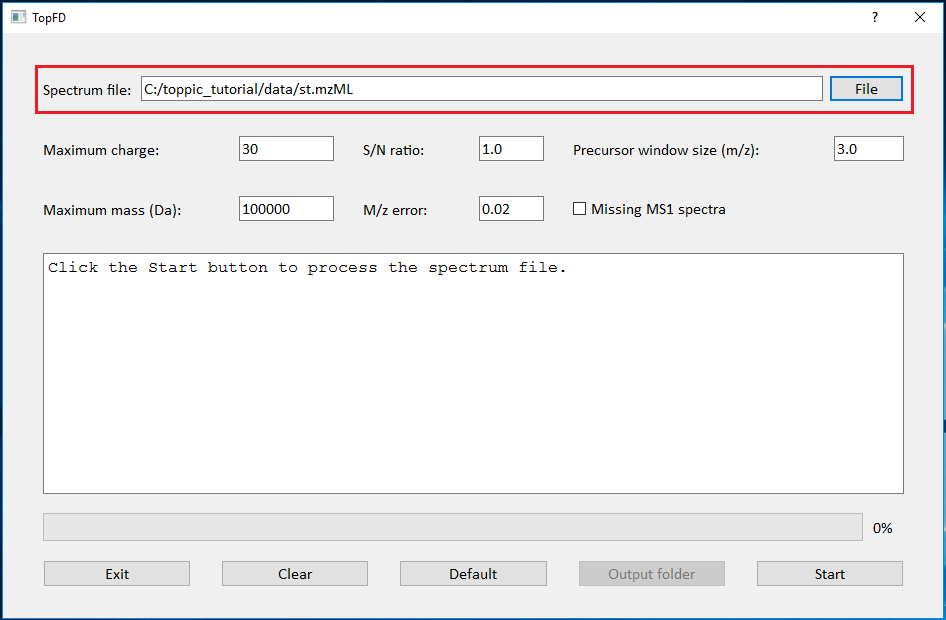
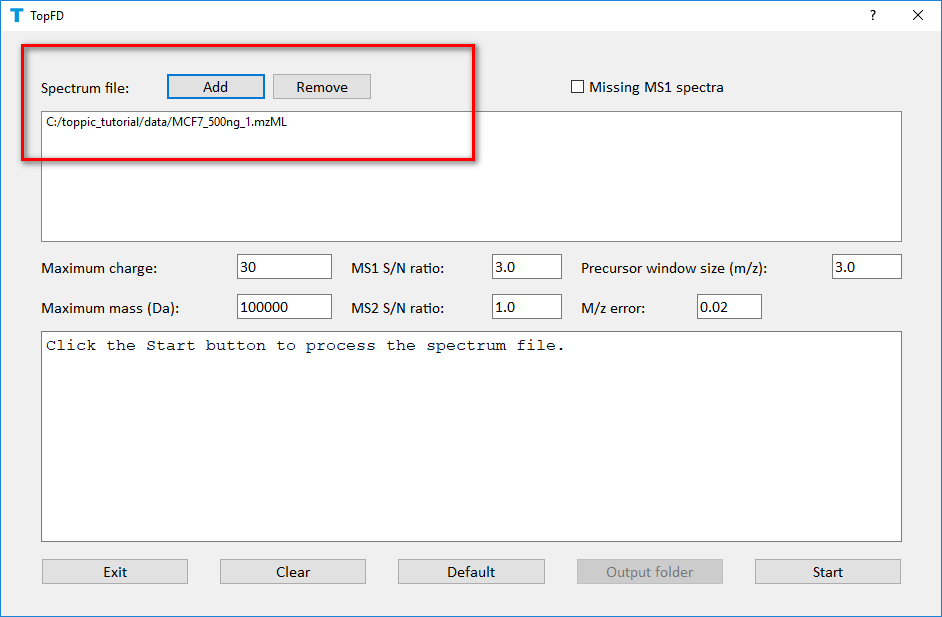
update toppic in tutorial

diff --git a/tutorial.html b/tutorial.html
@@ -41,9 +41,9 @@
 
       <h3>1 Overview</h3>
       In this tutorial, we use TopPIC suite to analyze a top-down MS/MS data set
-      of <i>Salmonella typhimurium</i> on a computer with a Windows operating
-      system. <b>Annotated proteoform spectrum-matches (PrSMs) identified from the data set can be browsed 
-        <a href="data_files/st_ms2_prsm_cutoff_html/proteins.html">here</a></b>.
+      of human MCF-7 cell on a computer with a Windows operating system.
+      <!-- <b>Annotated proteoform spectrum matches (PrSMs) identified from the data set can be browsed 
+        <a href="data_files/st_ms2_prsm_cutoff_html/proteins.html">here</a></b>. -->
 
       <h3>2 Folders</h3>
       <p>Create the folders below for software packages and data sets
@@ -51,11 +51,11 @@
       </p>
       <ol>
         <li>Create a new folder named 'toppic_tutorial' on the C: drive of your system. 
-        <li>Create a new subfolder named 'pwid' in the folder C:\toppic_tutorial\ for 
+        <li>Create a new subfolder named 'pwid' in the folder <code>C:\toppic_tutorial\</code> for 
         the software package ProteoWizard. 
-        <li>Create a new subfolder named 'toppic' in the folder C:\toppic_tutorial\ for 
+        <li>Create a new subfolder named 'toppic' in the folder <code>C:\toppic_tutorial\</code> for 
         the software TopPIC suite. 
-        <li>Create a new subfolder named 'data' in the folder C:\toppic_tutorial\ for 
+        <li>Create a new subfolder named 'data' in the folder <code>C:\toppic_tutorial\</code> for 
         data files. 
         <!--
         <li>Create a new subfolder named 'results' in the folder C:\toppic_tutorial\ for saving
@@ -73,32 +73,35 @@
 
       <h4>3.1 Top-down MS/MS date set</h4>
       <p>
-      A top-down MS/MS data set of <i>S. typhimurium</i> is used in the
-      tutorial. The protein extract of <i>S. typhimurium</i> were reduced with
-      dithiothreitol and alkylated with iodoacetamide.  The protein mixture was
-      separated with an HPLC system coupled to an LTQ-Orbitrap mass spectrometer (Thermo
-      Fisher Scientific). MS and MS/MS spectra were collected at a resolution of
-      60,000 and 30,000, respectively.  The data set contains 1,419
-      collision-induced dissociation (CID) top-down MS/MS spectra.  
+      A top-down MS/MS data set of human MCF-7 cells is used in the
+      tutorial. The proteins extracted were reduced with dithiothreitol and alkylated with iodoacetamide, and then separated by capillary zone electrophoresis (CZE). A one-meter 
+      linear polyacrylamide coated capillary (50 &mu;m/360 &mu;m i.d./o.d.) 
+      was used for CZE, and a commercialized electro-kinetically pumped 
+      sheath flow CE-MS interface (CMP Scientific, Brooklyn, NY) was used 
+      to couple CZE to MS. The top 3 precursor ions in each MS spectrum 
+      were selected for MS/MS analysis. The mass resolution for MS and 
+      MS/MS was 120000 and 60000, respectively. The AGC target for MS and MS/MS
+      was the same, 1E6. The number of microscan was 4 and 3 for MS and 
+      MS/MS, respectively. A total of 1 523 HCD MS/MS spectra were acquired.
       </p>
-      <p>Click <a href="./data_files/st.raw">here</a>
+      <p>Click <a href="./data_files/MCF7_500ng_1.raw">here</a>
       <!-- <p>Click <a
            href="filedownload.php?filename=./data_files/st.raw">here</a> -->
       to download the data set
-      and save it in the folder C:\toppic_tutorial\data\.</p>
+      and save it in the folder <code>C:\toppic_tutorial\data\</code>.</p>
 
       <h4>3.2 Protein sequence database</h4>
-      <p>The <i>S. typhimurium</i> <a
-        href="http://www.uniprot.org/uniprot/?query=proteome:UP000001014%20reviewed:yes">proteome
-        database</a> was downloaded from the UniProt database on November 17, 2017. It
-      contains 1,795 protein sequences. 
+      <p>The human <a
+        href="https://www.uniprot.org/proteomes/UP000005640">proteome
+        database</a> was downloaded from the UniProt database on Feb 5, 2018. It
+      contains 20,303 protein sequences. 
       </p>
 
-      <p>Click <a href="filedownload.php?filename=./data_files/uniprot-st.fasta">here</a>
+      <p>Click <a href="filedownload.php?filename=./data_files/uniprot-human.fasta">here</a>
       to download the protein database and save it in the folder
-      C:\toppic_tutorial\data\.</p>
+      <code>C:\toppic_tutorial\data\</code>.</p>
 
-      <p>The folder C:\toppic_tutorial\data\ is shown in the screenshot below.</p>
+      <p>The folder <code>C:\toppic_tutorial\data\</code> is shown in the screenshot below.</p>
       <br>
       <img src="./images/folder_2.png" height="200" width="600" 
       style="border: #00008B 1px solid;"/></p>
@@ -135,9 +138,9 @@
         <li>Choose the download type 'Windows 64-bit tar.bz2' for end users.</li>
         <li>Click the button "I agree to the licensing terms, download
         ProteoWizard" to download ProteoWizard and save the bz2 file in the folder
-        C:\toppic_tutorial\pwid\.</li>
+        <code>C:\toppic_tutorial\pwid\</code>.</li>
         <li>Extract all the files of the downloaded bz2 file to the folder
-        C:\toppic_tutorial\pwiz\.</li> 
+        <code>C:\toppic_tutorial\pwiz\</code>.</li> 
         <br>
         <p><img src="./images/pwiz_1.png" height="200" width="600" 
         style="border: #00008B 1px solid;"/>
@@ -151,13 +154,13 @@
       <p>
       <ol>
         <li>Go to the <a href = "./register.html">download webpage</a> of TopPIC.</li>
-        <li>Choose the download type "Windows 64-bit zip file," fill out the
+        <li>Choose the download type "Windows 64-bit zip file", fill out the
         registration form, and click "I accept license agreement and download
         TopPIC suite"
         to download it.</li>
-        <li>Save it to the folder C:\toppic_tutorial\toppic\.</li>
+        <li>Save it to the folder <code>C:\toppic_tutorial\toppic\</code>.</li>
         <li>Extract all the files of the downloaded zip file to the folder
-        C:\toppic_tutorial\toppic\.</li> 
+        <code>C:\toppic_tutorial\toppic\</code>.</li> 
         <br>
         <p><img src="./images/toppic_1.png" height="200" width="600" 
         style="border: #00008B 1px solid;"/>
@@ -171,10 +174,10 @@
       file.</p>
       <ol>
         <li> Double click the executable file MSConvertGUI.exe in the folder
-        C:\toppic_tutorial\pwiz.</li>
-        <li> Add the file c:\toppic_tutorial\data\st.raw as an input file.</li>
+        <code>C:\toppic_tutorial\pwiz</code>.</li>
+        <li> Add the file <code>c:\toppic_tutorial\data\MCF7_500ng_1.raw</code> as an input file.</li>
         <li> Add the filter "peakPeaking vendor msLevel=1-" <b><font
-            color=#FF0000">(important)</font></b>.</li>
+            color=#FF0000>(important)</font></b>.</li>
         <li> Click to the button "Start" to perform file format conversion.</li>
       </ol>
       <p>
@@ -192,9 +195,9 @@
 
       <p>
       The resulting output mzML file is
-      <pre>C:\toppic_tutorial\result\st.mzML</pre> The size of the file is about 43
+      <pre>C:\toppic_tutorial\result\MCF7_500ng_1.mzML</pre> The size of the file is about 109
       MB, which can be downloaded <a
-      href="filedownload.php?filename=./data_files/st.mzML">here</a>.  The
+      href="filedownload.php?filename=./data_files/MCF7_500ng_1.mzML">here</a>.  The
     running time for the file format conversion is less than one minute.   
       </p>
 
@@ -202,9 +205,9 @@
 
       <p>We use <b>topfd_gui</b> for top-down mass spectral deconvolution.</p>
       <ol>
-        <li> Double click the executable file topfd_gui.exe in the folder
-        C:\toppic_tutorial\toppic.</li>
-        <li> Add the file c:\toppic_tutorial\data\st.mzML as an input file.</li>
+        <li> Double click the executable file <code>topfd_gui.exe</code> in the folder
+        <code>C:\toppic_tutorial\toppic</code>.</li>
+        <li> Add the file <code>c:\toppic_tutorial\data\MCF7_500ng_1.mzML</code> as an input file.</li>
         <li> Click to the button "Start" to deconvolute the file.</li>
       </ol>
       <p>
@@ -218,66 +221,65 @@
       TopFD reports three text files. 
       <ol>
         <li>A msalign file containing deconvoluted MS1 spectra:
-        <pre>C:\toppic_tutorial\data\st_ms1.msalign</pre></li>
+        <pre>C:\toppic_tutorial\data\MCF7_500ng_1_ms1.msalign</pre></li>
         <li>A msalign file containing deconvoluted MS/MS spectra:
-        <pre>C:\toppic_tutorial\data\st_ms2.msalign</pre></li>
+        <pre>C:\toppic_tutorial\data\MCF7_500ng_1_ms2.msalign</pre></li>
         <li>A text file containing LC/MS features of MS/MS spectra:
-        <pre>C:\toppic_tutorial\data\st.feature</pre></li>
+        <pre>C:\toppic_tutorial\data\MCF7_500ng_1.feature</pre></li>
       </ol>
       <p>
       The three output files can be downloaded
-      <a href="filedownload.php?filename=./data_files/st-msalign.zip">here</a>.  
-      The running time of TopFD is about 6 minutes. 
+      <a href="filedownload.php?filename=./data_files/MCF7_500ng_1-msalign.zip">here</a>.  
+      <!--The running time of TopFD is about 6 minutes. -->
       </p>
 
-      <h4>5.3 Mass spectral identification by database search</h4>
-      <p>We use <b>toppic_gui</b> to search MS/MS spectra in the file
-      st_ms2.msalign against the protein database uniprot-st.fasta to
+      <h4>5.3 Mass spectral identification using TopPIC</h4>
+      <p>We use <code>toppic_gui</code> to search MS/MS spectra in the file
+      <code>MCF7_500ng_1_ms2.msalign</code> against the protein database <code>uniprot-human.fasta</code> to
       identify PrSMs. 
       </p>
       <ol>
-        <li> Double click the executable file toppic_gui.exe in the folder
-        C:\toppic_tutorial\toppic.</li>
-        <li> Select C:\toppic_tutorial\data\uniprot-st.fasta as the protein
+        <li> Double click the executable file <code>toppic_gui.exe</code> in the folder
+        <code>C:\toppic_tutorial\toppic</code>.</li>
+        <li> Select <code>C:\toppic_tutorial\data\uniprot-human.fasta</code> as the protein
         database file.</li>
-        <li> Select C:\toppic_tutorial\data\st_ms2.msalign as the
+        <li> Select <code>C:\toppic_tutorial\data\MCF7_500ng_1_ms2.msalign</code> as the
         mass spectrum data file. </li>
-        <li> Check the checkbox "MS1 feature file" and select 
-        C:\toppic_tutorial\data\st.feature as the feature file. </li>
-        <li> Select "C57" as the fixed modification. </li>
-        <li> Check the checkbox "Decoy database." </li>
-        <li> Select "FDR" as the spectrum level cutoff type. </li>
-        <li> Select "FDR" as the proteoform level cutoff type. </li>
+        <li> Select <code>C57</code> as the fixed modification. </li>
+        <li> Check the checkbox <code>Decoy database</code>. </li>
+        <li> Select <code>FDR</code> as the spectrum level cutoff type. </li>
+        <li> Select <code>FDR</code> as the proteoform level cutoff type. </li>
         <li> Click to the button "Start"</li>
       </ol>
       <p>
-      The screenshot of toppic_gui is shown below. 
+      The screenshot of <code>toppic_gui</code> is shown below. 
       </p>
 
-      <p><img src="./images/toppic_2.png" height="400" width="600" 
-      style="border: #00008B 1px solid;"/>
+      <p><img src="./images/toppic_2.png" height="400" width="600" style="border: #00008B 1px solid;"/>
       </p>
 
+      <p><img src="./images/toppic_3.png" height="400" width="600" style="border: #00008B 1px solid;"/>
+      </p>
 
       <p>TopPIC reports two tab delimited text files and a collection of html
       files for identified proteoforms. 
       <ul>
-        <li>A tab delimited text file containing identified PrSMs with a 1% spectrum level FDR:
-        <pre>C:\toppic_tutorial\data\st_ms2.OUTPUT_TABLE</pre> 
+        <li>A tab delimited text file containing identified PrSMs with a 5% spectrum level FDR:
+        <pre>C:\toppic_tutorial\data\MCF7_500ng_1_ms2.OUTPUT_TABLE</pre> 
         </li>
         <li> A tab delimited text file containing identified proteoforms and
-        their best PrSMs with a 1% proteoform level FDR:
-        <pre>C:\toppic_tutorial\data\st_ms2.FORM_OUTPUT_TABLE</pre> 
+        their best PrSMs with a 5% proteoform level FDR:
+        <pre>C:\toppic_tutorial\data\MCF7_500ng_1_ms2.FORM_OUTPUT_TABLE</pre> 
         </li> A folder containing html files for the
-        annotation of identified PrSMs with a 1% spectrum
+        annotation of identified PrSMs with a 5% spectrum
         level FDR: 
-        <pre>C:\toppic_tutorial\data\st_ms2_prsm_cutoff_html</pre> 
+        <pre>C:\toppic_tutorial\data\MCF7_500ng_1_ms2_prsm_cutoff_html</pre> 
         </li>
         <li>
         A folder containing html files for the
-        annotation of identified PrSMs with a 1%
+        annotation of identified PrSMs with a 5%
         proteoform level FDR: 
-        <pre>C:\toppic_tutorial\data\st_ms2_proteoform_cutoff_html</pre> 
+        <pre>C:\toppic_tutorial\data\MCF7_500ng_1_ms2_proteoform_cutoff_html</pre> 
         </li>
       </ul>
       </p>
@@ -285,24 +287,28 @@
       <p> In the analysis, C57 is selected as the fixed modification because
       proteins were reduced with dithiothreitol and alkylated with
       iodoacetamide before the MS experiment. When proteins are not reduced, C0
-      should be selected. A shuffled decoy database is concatenated
+      should be selected.
+      </p>
+
+      <p>
+      A shuffled decoy database is concatenated
       to the target database to estimate spectrum level and proteoform level
       FDRs. All identified PrSMs are first filtered by a
-      1% spectrum level FDR and the resulting PrSMs are reported in the
-      file st_ms2.OUTPUT_TABLE. The proteoforms corresponding to the PrSMs 
-      are further filtered using a 1% proteoform level FDR and
+      5% spectrum level FDR and the resulting PrSMs are reported in the
+      file <code>MCF7_500ng_1_ms2.OUTPUT_TABLE</code>. The proteoforms corresponding to the PrSMs 
+      are further filtered using a 5% proteoform level FDR and
       the resulting proteoforms and their corresponding best PrSMs are reported in the file
-      st_ms2.FORM_OUTPUT_TABLE. Microsoft Excel can be used to open these two files. 
-      To browse the annotations in the two folders st_ms2_prsm_cutoff_html and
-      st_ms2_proteoform_cutoff_html, use a web browser (Google Chrome is
+      <code>MCF7_500ng_1_ms2.FORM_OUTPUT_TABLE</code>. Microsoft Excel can be used to open these two files. 
+      To browse the annotations in the two folders <code>MCF7_500ng_1_ms2_prsm_cutoff_html</code> and
+      <code>MCF7_500ng_1_ms2_proteoform_cutoff_html</code>, use a web browser (Google Chrome is
       recommended) to open the file proteins.html.
       </p>
 
       <p>
       The output files can be downloaded
       <!-- <a href="filedownload.php?filename=./data_files/st-result.zip">here</a>.-->  
-      <a href="./data_files/st-results.zip">here</a>.  
-      The running time of TopPIC is about 5 minutes. 
+      <a href="./data_files/MCF7_500ng_1-toppic_results.zip">here</a>.  
+      <!-- The running time of TopPIC is about 5 minutes. -->
       </p>
       
 
